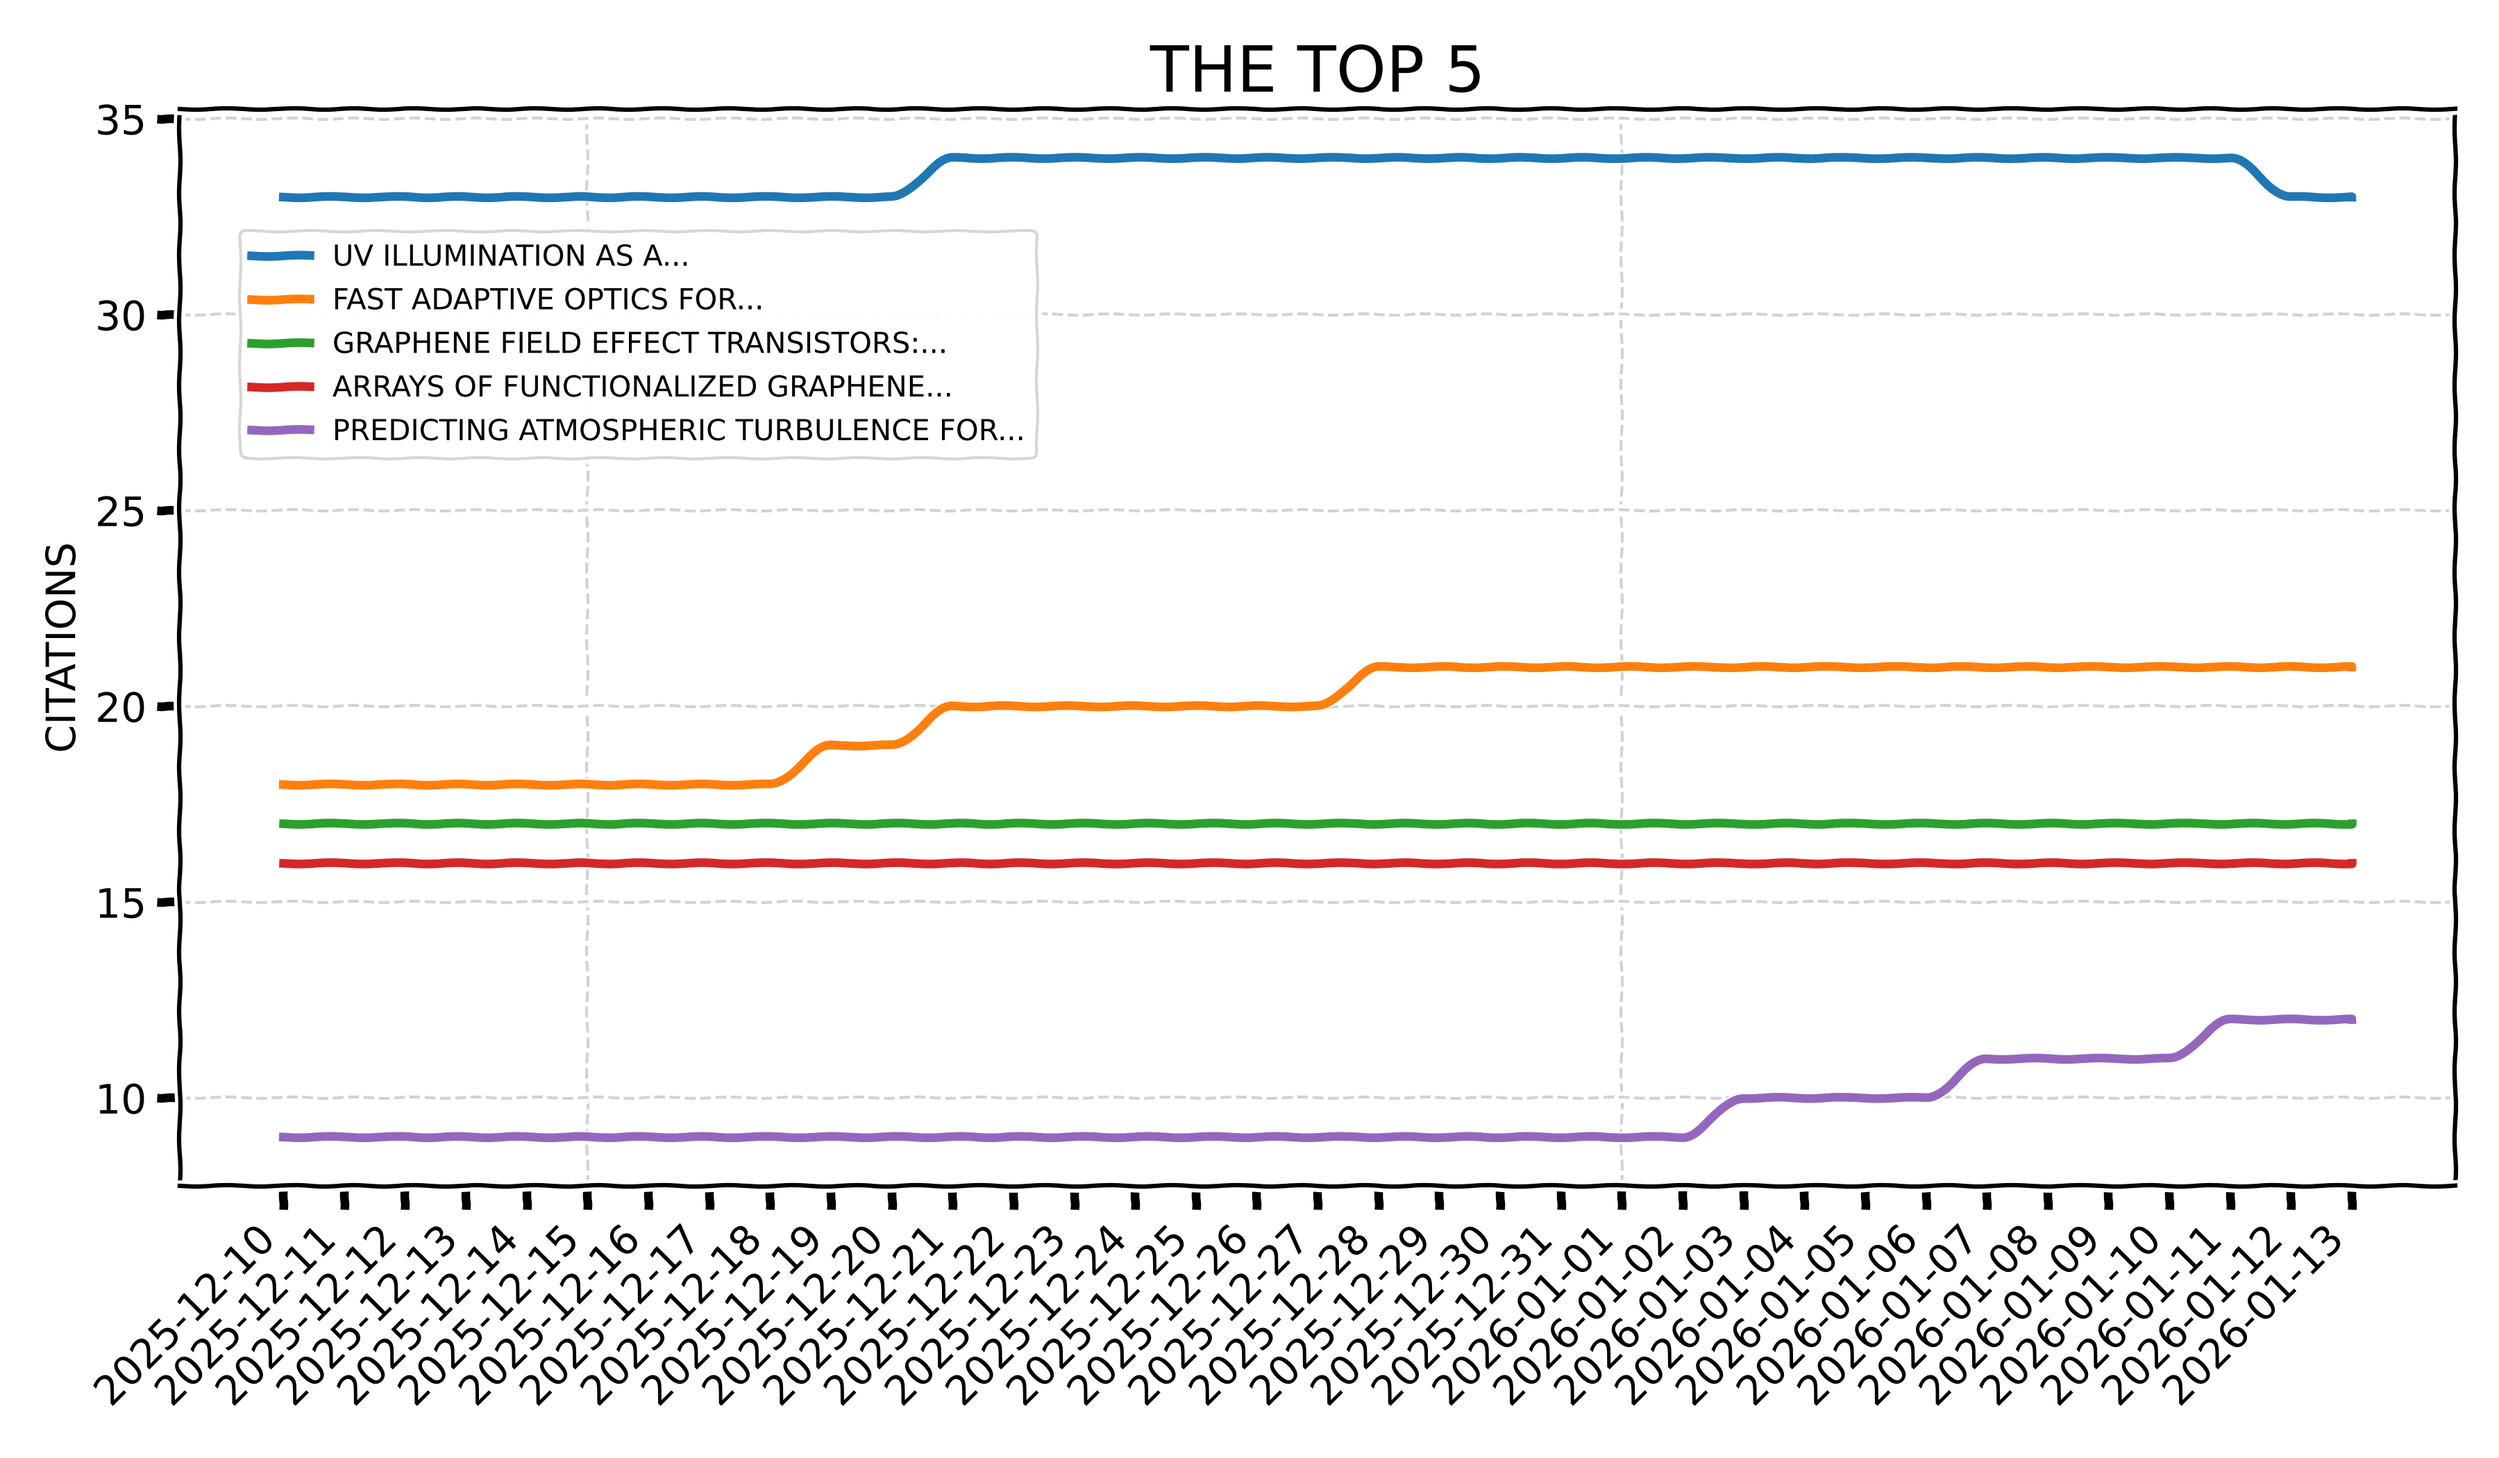
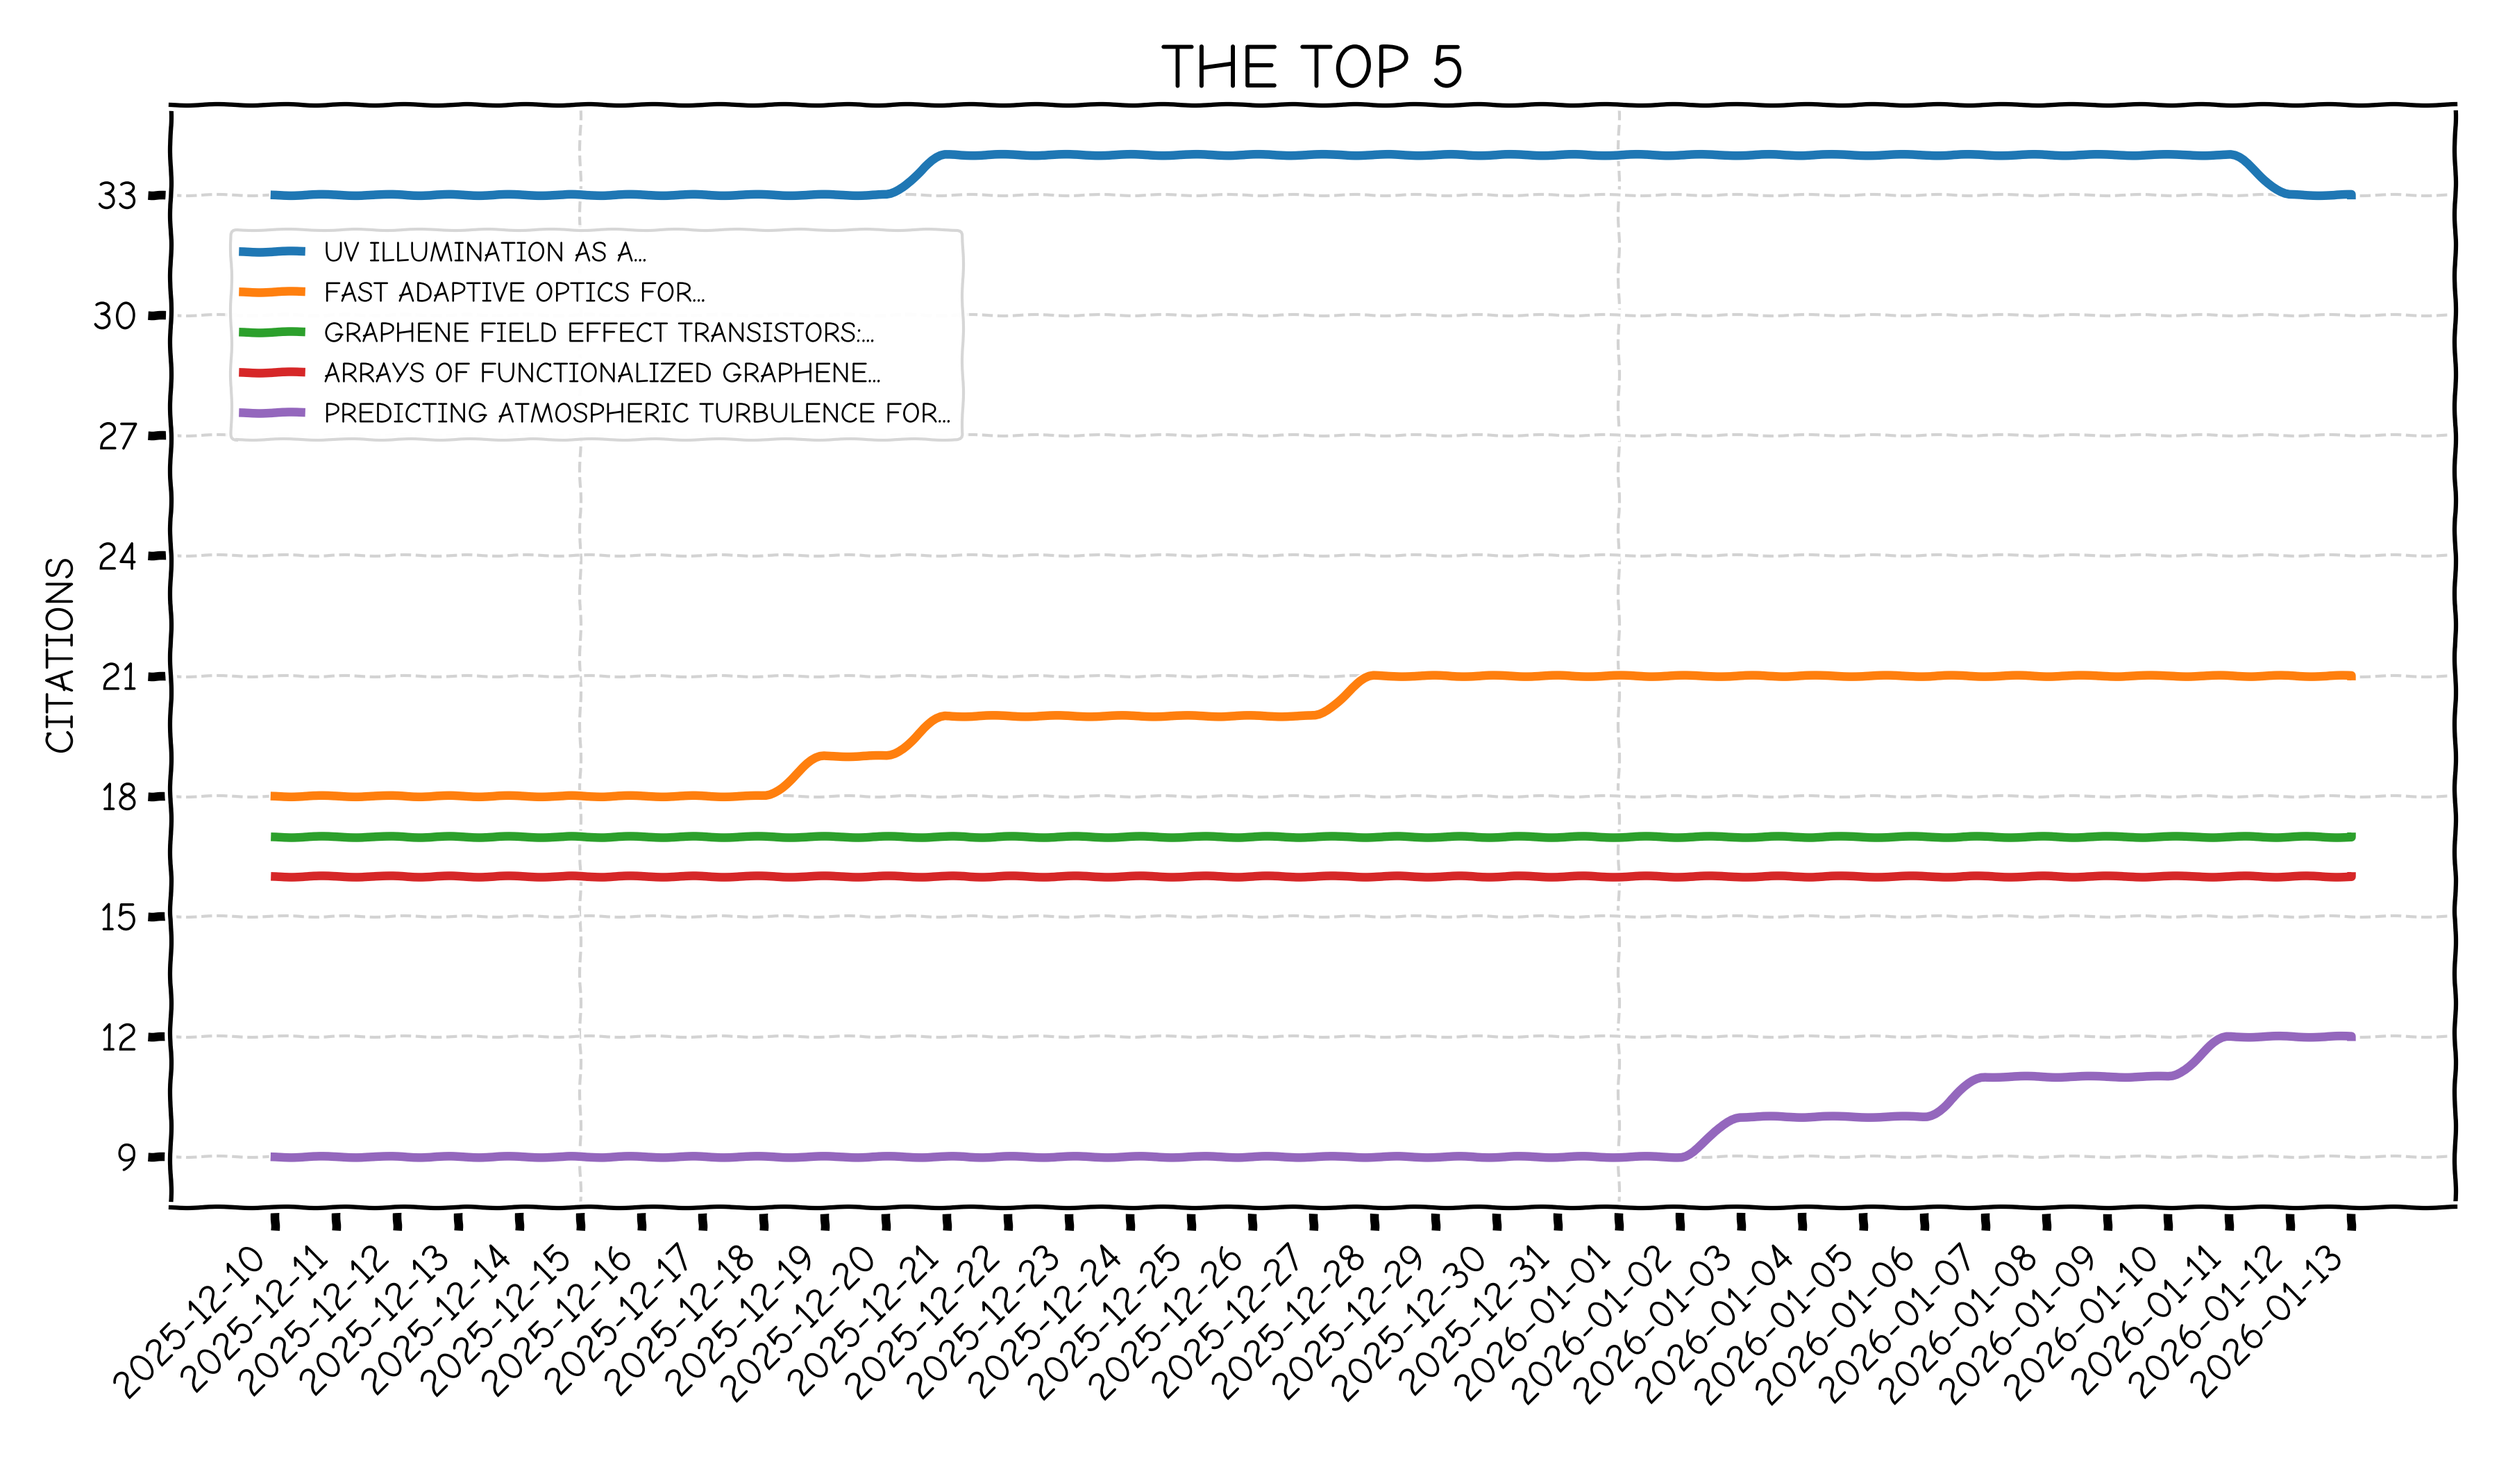
Added individual plots for papers

diff --git a/plotting.py b/plotting.py
@@ -3,6 +3,7 @@ import logging
 import pandas as pd
 import matplotlib.pyplot as plt
 import matplotlib.font_manager as fm
+import matplotlib.ticker as mticker  # Added for integer locator
 import numpy as np
 from scipy.interpolate import PchipInterpolator
 
@@ -11,10 +12,10 @@ PATHS = {
     "input": "citations_history.csv",
     "wide_output": "citations_wide_format.csv",
     "xkcd_cumulative": "cumulative_citations_xkcd.png",
-    "xkcd_top_5": "top_5_citations_xkcd.png"
+    "xkcd_top_5": "top_5_citations_xkcd.png",
+    "individual_folder": "individual_plots"
 }
 
-# Standardized Figure Size for GitHub Display
 FIG_SIZE = (12, 7)
 DPI = 300
 
@@ -44,13 +45,15 @@ def format_title(title, max_words=4):
 def add_custom_grids(ax, x_labels):
     """Adds light grey y-grid and vertical lines for the 1st and 15th."""
     ax.grid(axis='y', color='lightgrey', linestyle='--', linewidth=1, zorder=0)
+    # Force Integer Ticks on Y Axis
+    ax.yaxis.set_major_locator(mticker.MaxNLocator(integer=True))
+    
     for i, date in enumerate(x_labels):
         day = date.split('-')[-1].zfill(2)
         if day == '01' or day == '15':
             ax.axvline(x=i, color='lightgrey', linestyle='--', linewidth=1, zorder=0)
 
 def smooth_monotonic(x, y):
-    """Interpolates using PCHIP to prevent overshoot/oscillation."""
     x_new = np.linspace(min(x), max(x), 500)
     pchip = PchipInterpolator(x, y)
     y_smooth = pchip(x_new)
@@ -65,8 +68,7 @@ def plot_cumulative_xkcd(df_cumulative):
         y_values = df_cumulative.values
         x_smooth, y_smooth = smooth_monotonic(x_values, y_values)
         
-        ax.plot(x_smooth, y_smooth, color='green', linewidth=4, zorder=3)
-        
+        ax.plot(x_smooth, y_smooth, color='green', linewidth=6, zorder=3)
         add_custom_grids(ax, df_cumulative.index)
         
         ax.set_title('TOTAL CITATIONS', fontsize=22)
@@ -93,33 +95,55 @@ def plot_top_5_xkcd(df_wide):
         for i, col in enumerate(top_5.columns):
             y_values = top_5[col].values
             x_smooth, y_smooth = smooth_monotonic(x_values, y_values)
-            
-            ax.plot(x_smooth, y_smooth, 
-                    label=col, 
-                    linewidth=3, 
-                    color=colours[i % len(colours)],
-                    zorder=3)
+            ax.plot(x_smooth, y_smooth, label=col, linewidth=3, color=colours[i % len(colours)], zorder=3)
 
         add_custom_grids(ax, top_5.index)
-
         ax.set_title('THE TOP 5', fontsize=22)
         ax.set_xticks(list(x_values))
         ax.set_xticklabels(top_5.index, rotation=45, ha='right')
         ax.set_ylabel('CITATIONS')
-        
-        # Legend placement consistent and safe from curves
         ax.legend(loc='upper left', bbox_to_anchor=(0.02, 0.9), fontsize=10, frameon=True)
 
         plt.tight_layout()
         plt.savefig(PATHS["xkcd_top_5"], dpi=DPI)
         plt.close()
 
+def plot_individual_papers_xkcd(df_wide):
+    if not os.path.exists(PATHS["individual_folder"]):
+        os.makedirs(PATHS["individual_folder"])
+
+    with plt.xkcd():
+        plt.rcParams.update({'font.family': get_xkcd_font()})
+        
+        for title, row in df_wide.iterrows():
+            fig, ax = plt.subplots(figsize=FIG_SIZE)
+            y_values = row.fillna(0).values
+            x_values = np.array(range(len(y_values)))
+            x_smooth, y_smooth = smooth_monotonic(x_values, y_values)
+            
+            ax.plot(x_smooth, y_smooth, color='green', linewidth=6, zorder=3)
+            add_custom_grids(ax, df_wide.columns)
+            
+            ax.set_title(title.upper(), fontsize=16, wrap=True)
+            ax.set_xticks(list(x_values))
+            ax.set_xticklabels(df_wide.columns, rotation=45, ha='right')
+            ax.set_ylabel('CITATIONS')
+            
+            safe_title = "".join([c for c in title if c.isalnum() or c in (' ', '-', '_')]).rstrip()
+            file_path = os.path.join(PATHS["individual_folder"], f"{safe_title[:50]}.png")
+            
+            plt.tight_layout()
+            plt.savefig(file_path, dpi=DPI)
+            plt.close()
+            logging.info(f"Generated plot: {safe_title[:30]}...")
+
 def main():
     df_wide, df_cumulative = get_data()
     if df_wide is not None:
-        logging.info("Generating matching, smoothed XKCD reports...")
+        logging.info("Generating reports with integer y-axis...")
         plot_cumulative_xkcd(df_cumulative)
         plot_top_5_xkcd(df_wide)
+        plot_individual_papers_xkcd(df_wide)
         logging.info("Done!")
 
 if __name__ == "__main__":
